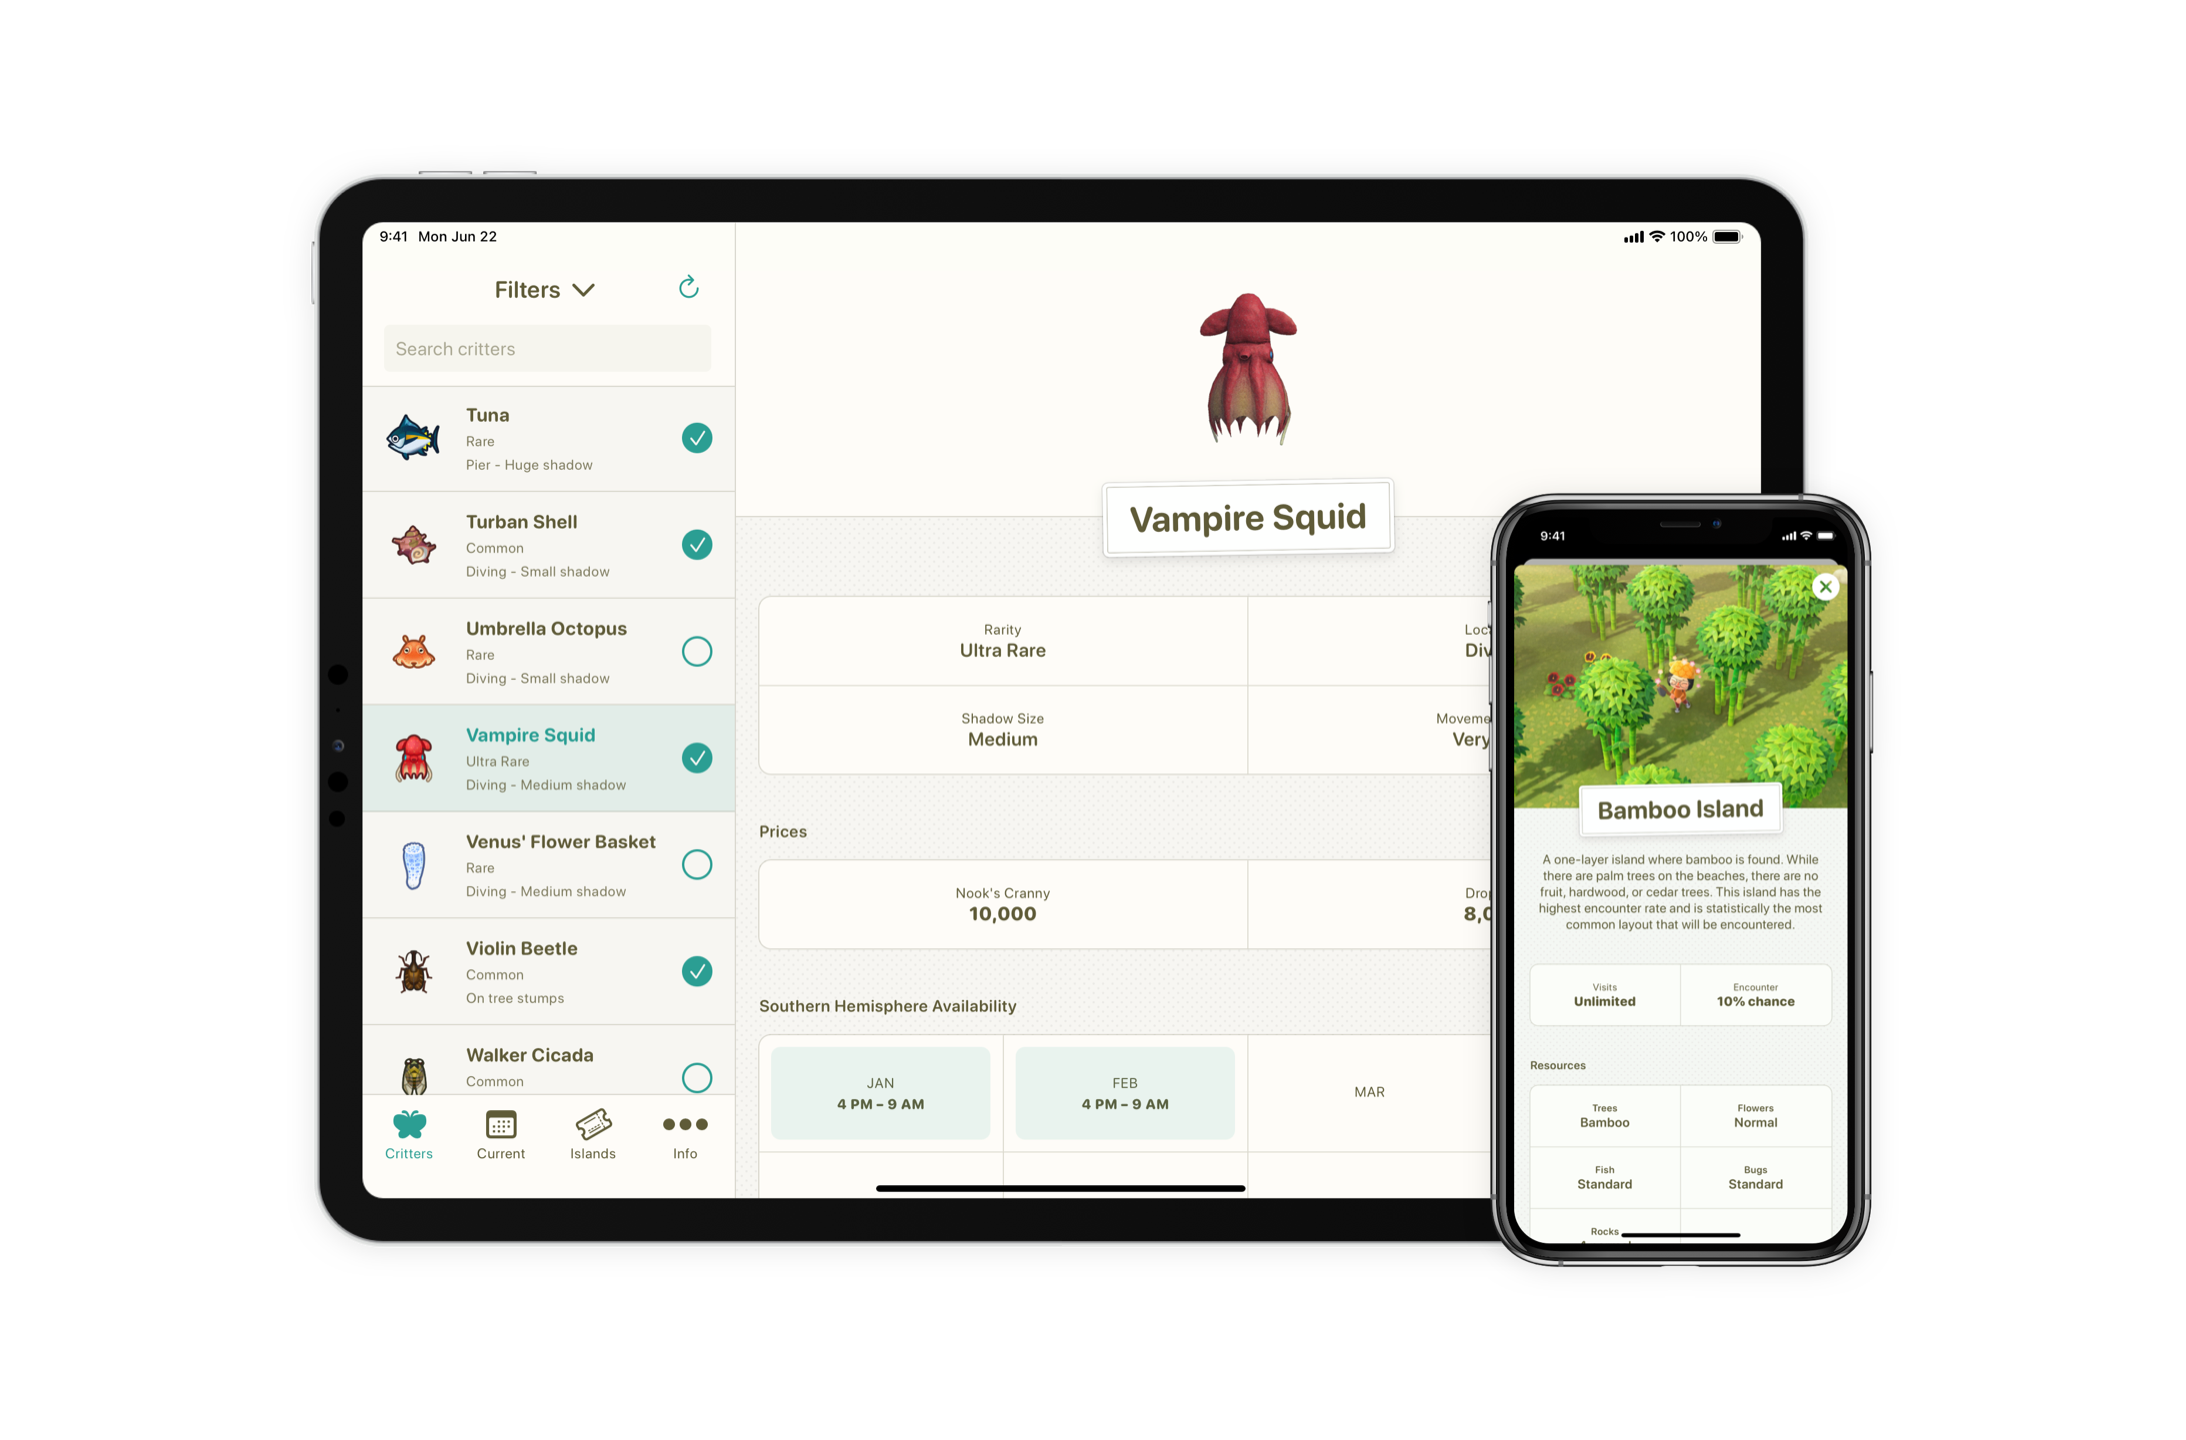
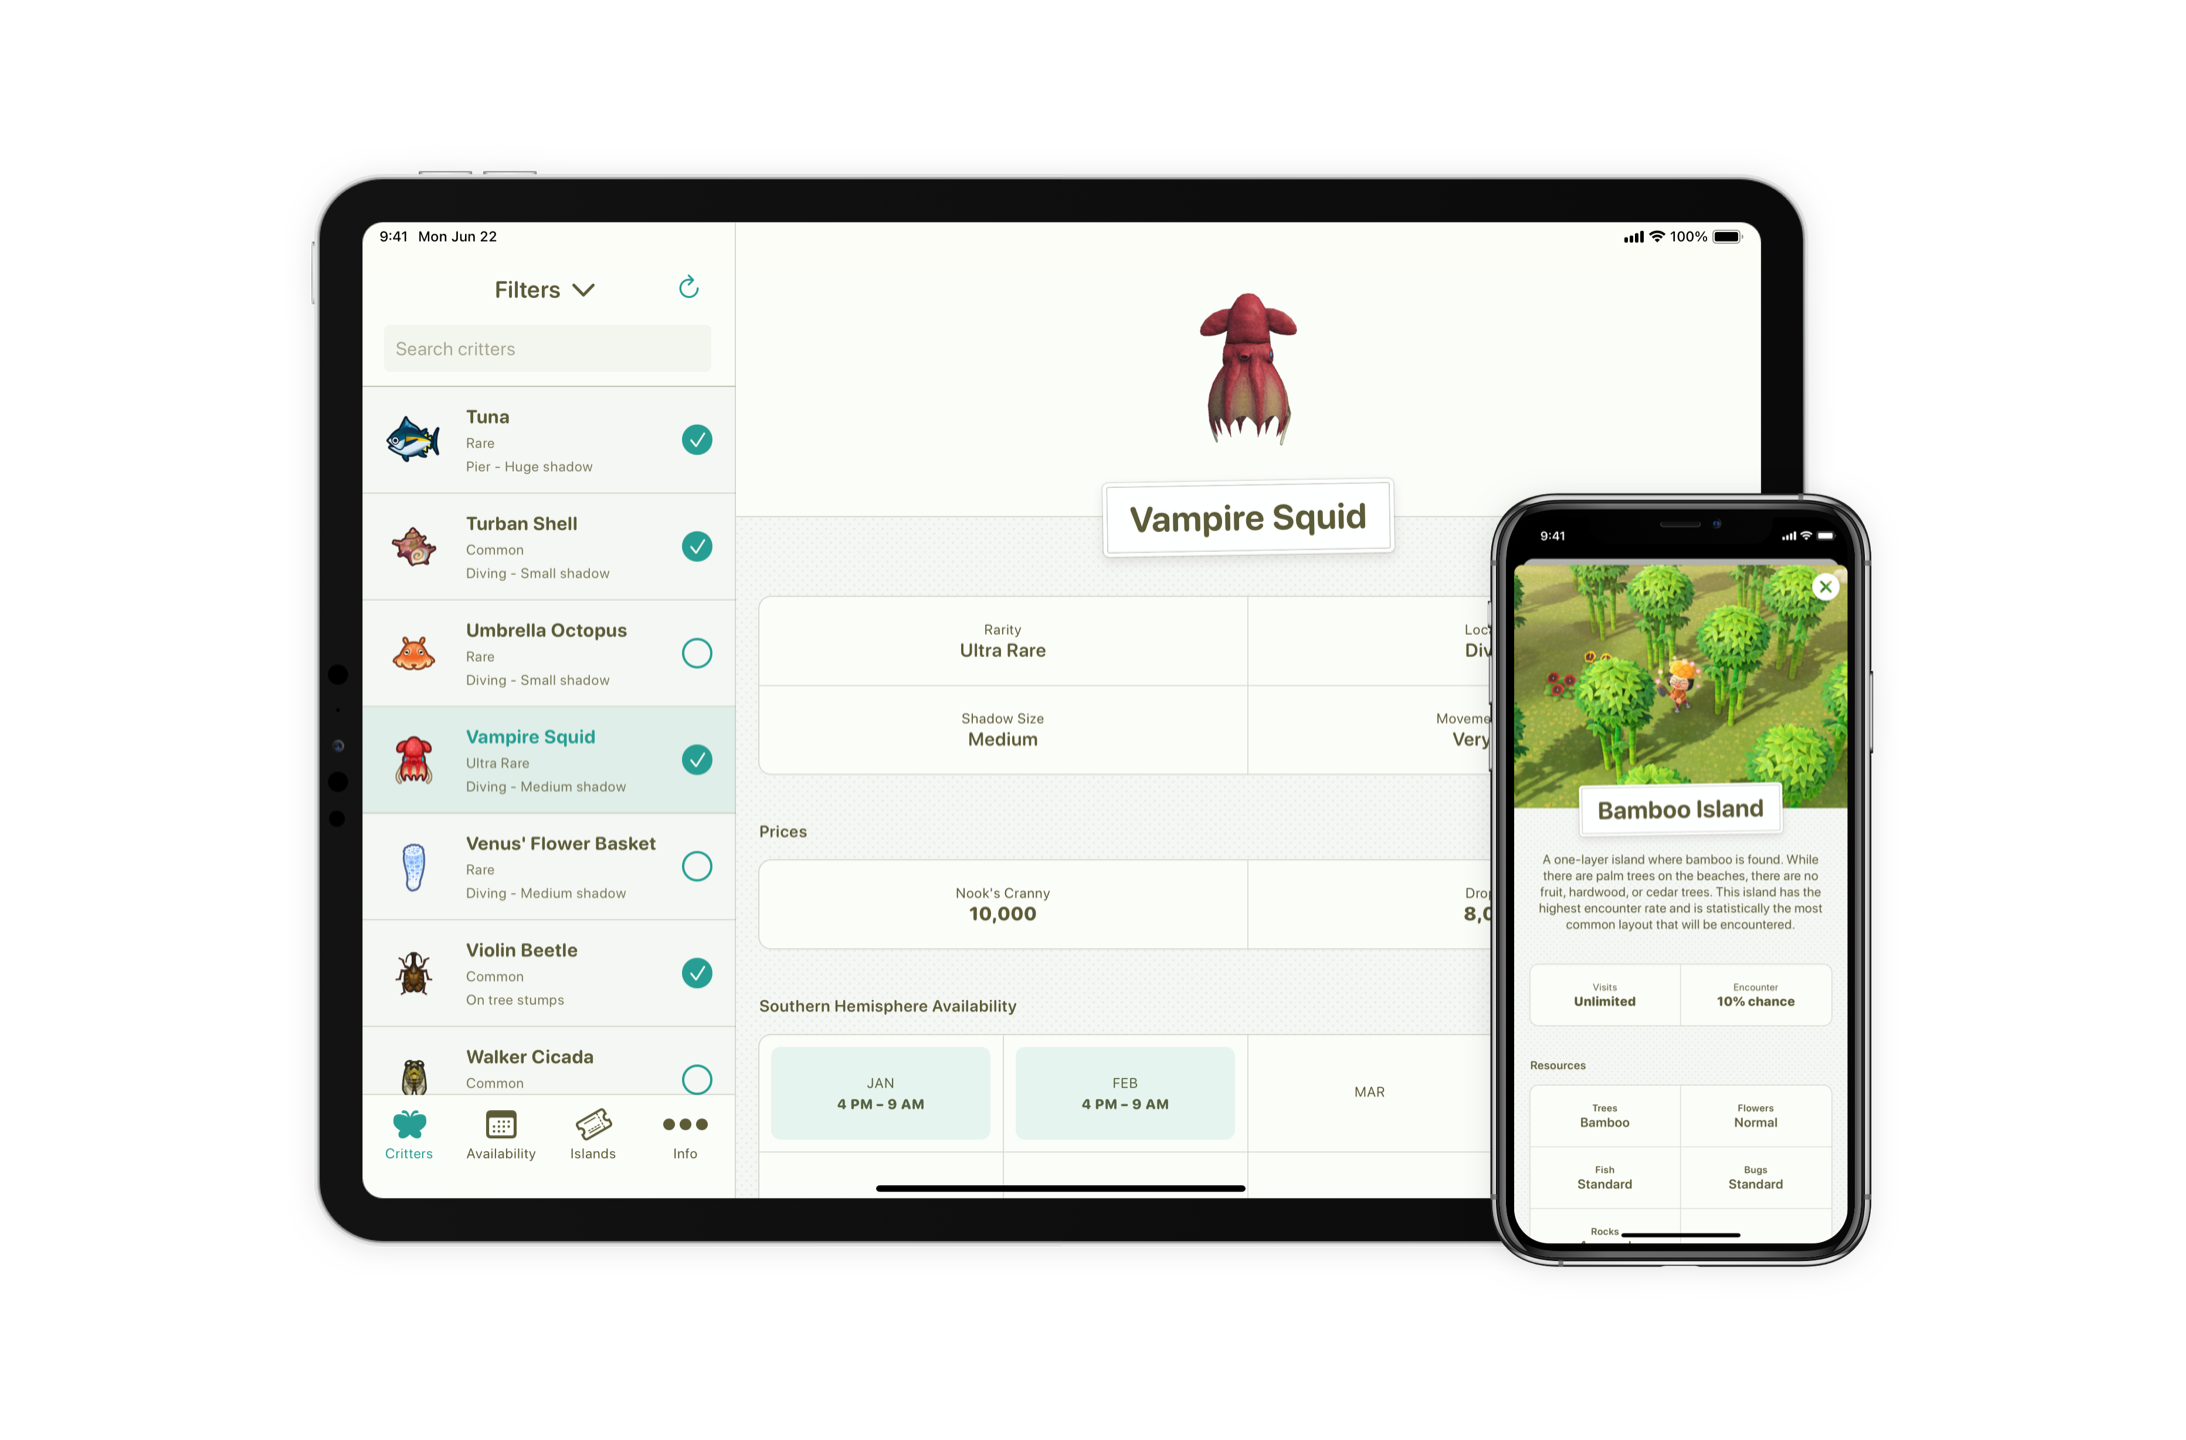
Updated CritterDex Version History and images

diff --git a/critterdex/version-history/index.html b/critterdex/version-history/index.html
@@ -38,6 +38,13 @@
 		<section>
 			<h1>Version History</h1>
 			
+			<h2>1.2.3</h2>
+			<p>17 August 2020</p>
+			<ul>
+				<li>The Current tab has been renamed to the Availability tab</li>
+				<li>Added a filter to the Availability tab which allows you to see what critters are available in any month of the year</li>
+			</ul>
+			
 			<h2>1.2.2</h2>
 			<p>11 July 2020</p>
 			<ul>
@@ -49,8 +56,8 @@
 			<p>9 July 2020</p>
 			<ul>
 				<li>Added Catch Difficulty and Vision for Fish in their detail card</li>
-				<li>Great White Shark, Hammerhead Shark, Saw Shark, Whale Shark, and Suckerfish have had their Shadow Size updated</li>
-				<li>Medium Fin and Large Fin Shadow Size filters have been replaced with a Fin filter</li>
+				<li>Great White Shark, Hammerhead Shark, Saw Shark, Whale Shark, and Suckerfish have had their <a href="https://toast-studio.com/critterdex/support/">Shadow Size updated</a></li>
+				<li>Medium Fin and Large Fin Shadow Size filters have been <a href="https://toast-studio.com/critterdex/support/">merged</a> in to a single Fin filter</li>
 			</ul>
 			
 			<h2>1.2</h2>
@@ -61,7 +68,7 @@
 				<li>Added a counter for Sea Creatures in the Catch Stats</li>
 				<li>Bugs have been renamed to Insects to be more consistent with the game</li>
 				<li>Updated image for Rugged Tree island</li>
-				<li>Catch Boost has been removed</li>
+				<li>Catch Boost has been <a href="https://toast-studio.com/critterdex/support/">removed</a></li>
 			</ul>
 			
 			<h2>1.1.1</h2>
